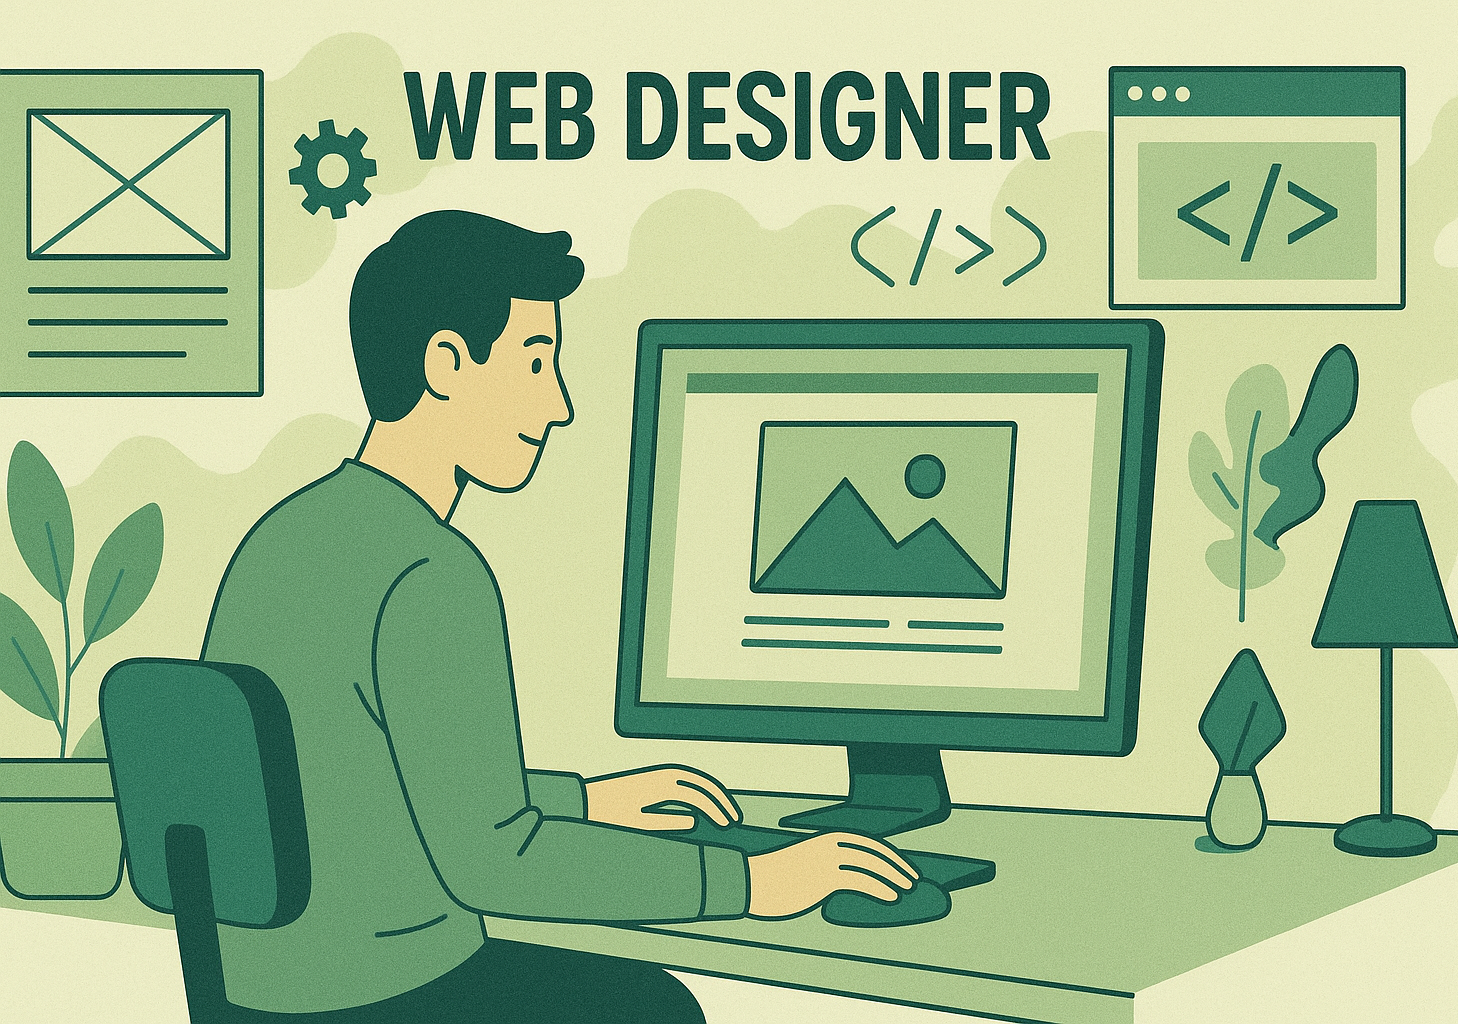
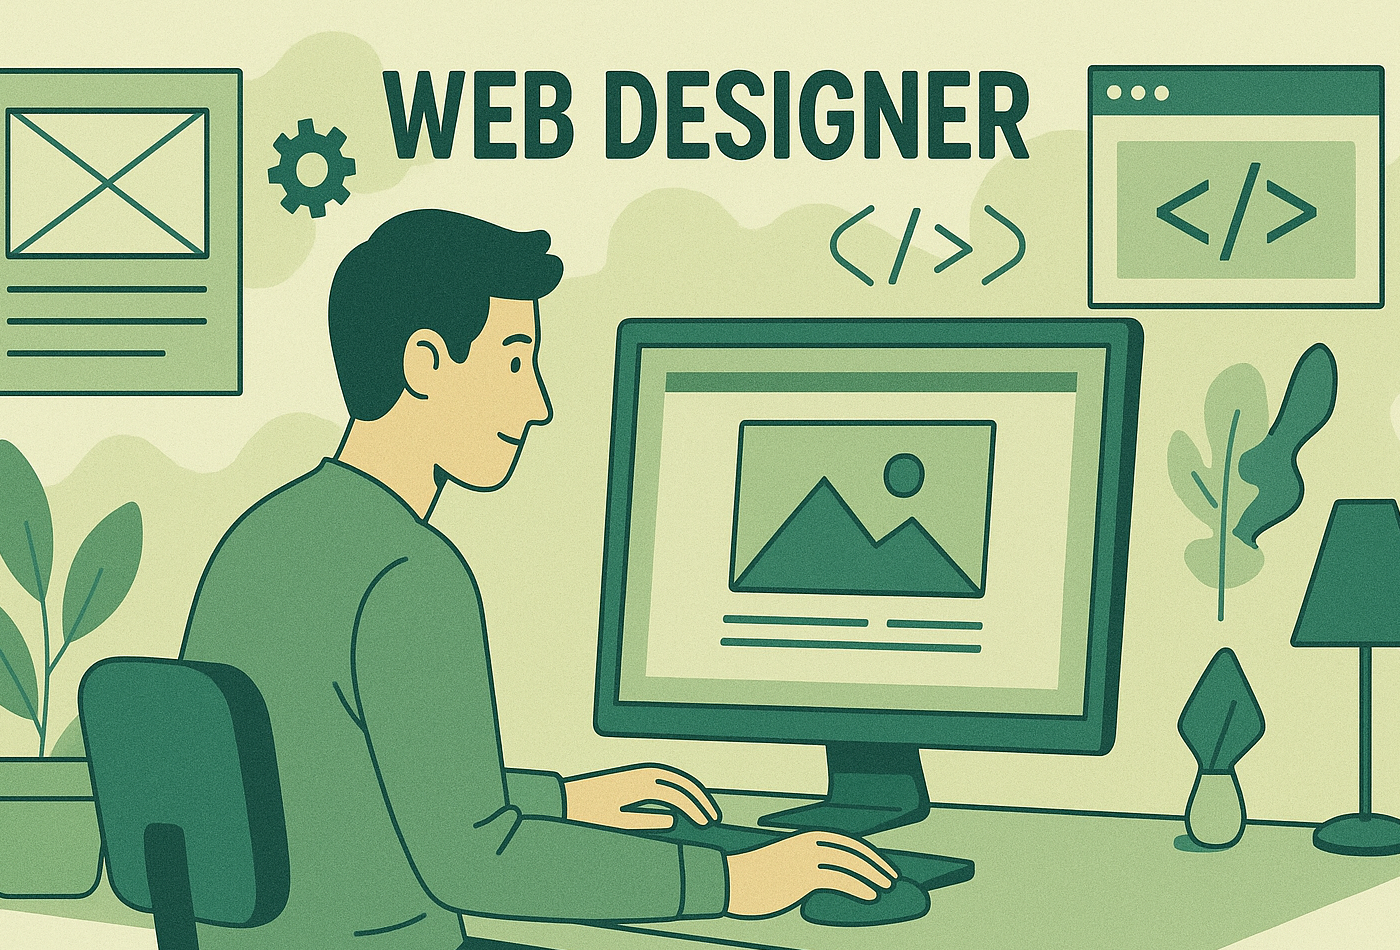
a

diff --git a/css/style.css b/css/style.css
@@ -185,7 +185,6 @@ img {
 .activity {
     height: auto;
     display: block;
-    border: 1px solid var(---navy);
 }
 .activity-head {
     background-color: var(---navy);
@@ -206,15 +205,15 @@ img {
     justify-content: space-between;
     align-items: stretch; /* 高さを揃える */
     gap: 0; /* 画像とテキストの隙間をなくす */
-    max-width: 1300px; /* 幅を1100pxから1300pxに拡大 */
+    max-width: 1300px; /* 幅を広げる */
     margin: 0 auto 100px;
     padding: 0; /* 内部余白を削除（画像のため） */
     
     /* カードスタイル */
     background-color: #ffffff; 
-    border: 2px solid var(---navy);
-    border-radius: 20px; 
-    box-shadow: 0 15px 40px -10px rgba(4, 49, 75, 0.15); 
+    border: 2px solid var(---navy); /* 枠線を追加 */
+    border-radius: 20px; /* 角丸 */
+    box-shadow: 0 15px 40px -10px rgba(4, 49, 75, 0.15); /* 影 */
     overflow: hidden; /* 画像のはみ出し防止 */
     transition: transform 0.3s ease, box-shadow 0.3s ease;
 }
@@ -229,9 +228,9 @@ img {
 .activity-img {
     flex: 0 0 50%; /* 幅を50%に固定 */
     width: 50%;
-    height: auto;
+    height: 100%; /* 高さを100%にしてボックスに合わせる */
     min-height: 350px; 
-    object-fit: cover;
+    object-fit: cover; /* 枠に合わせてトリミング */
     border-radius: 0; 
 }
 
@@ -241,7 +240,7 @@ img {
     display: flex;
     flex-direction: column;
     justify-content: center;
-    padding: 40px 50px; 
+    padding: 40px 50px; /* テキスト周りに余白 */
 }
 
 /* 偶数番目のレイアウト（画像右・テキスト左） */

diff --git a/index.html b/index.html
@@ -72,7 +72,7 @@
                 
                 <!-- 01 -->
                 <div class="activity-main fadein">
-                    <img class="activity-img" src="images/サーキュラーエコノミー.png" alt="">
+                    <img class="activity-img" src="images/ウェブデザイナー.png" alt="">
                     <div>
                         <h3 class="activity-name">01. Circular Project</h3>
                         <p class="activity-article">
@@ -85,7 +85,7 @@
 
                 <!-- 02 -->
                 <div class="activity-main fadein">
-                    <img class="activity-img" src="images/ウェブデザイナー.png" alt="">
+                    <img class="activity-img" src="images/IMG_8963.jpg" alt="">
                     <div>
                         <h3 class="activity-name">02. Co-creation Lab</h3>
                         <p class="activity-article">
